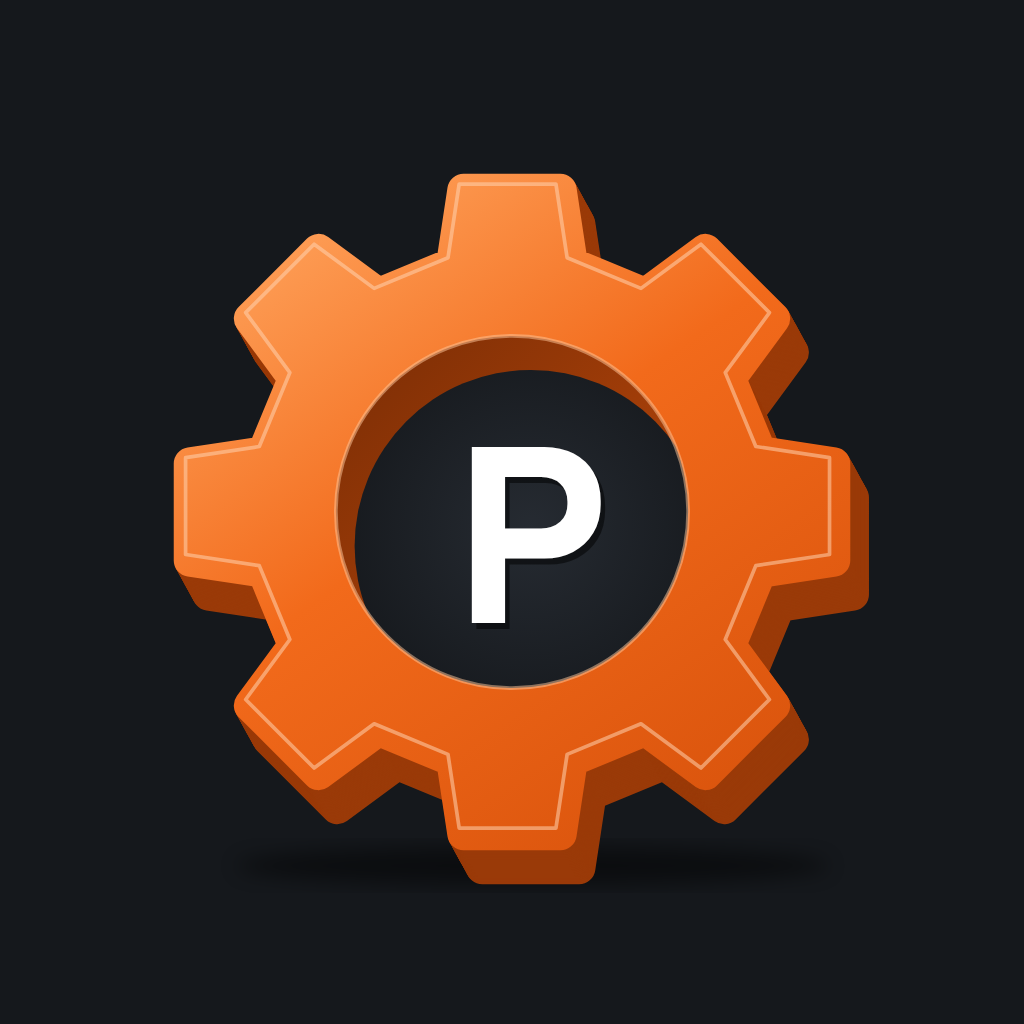
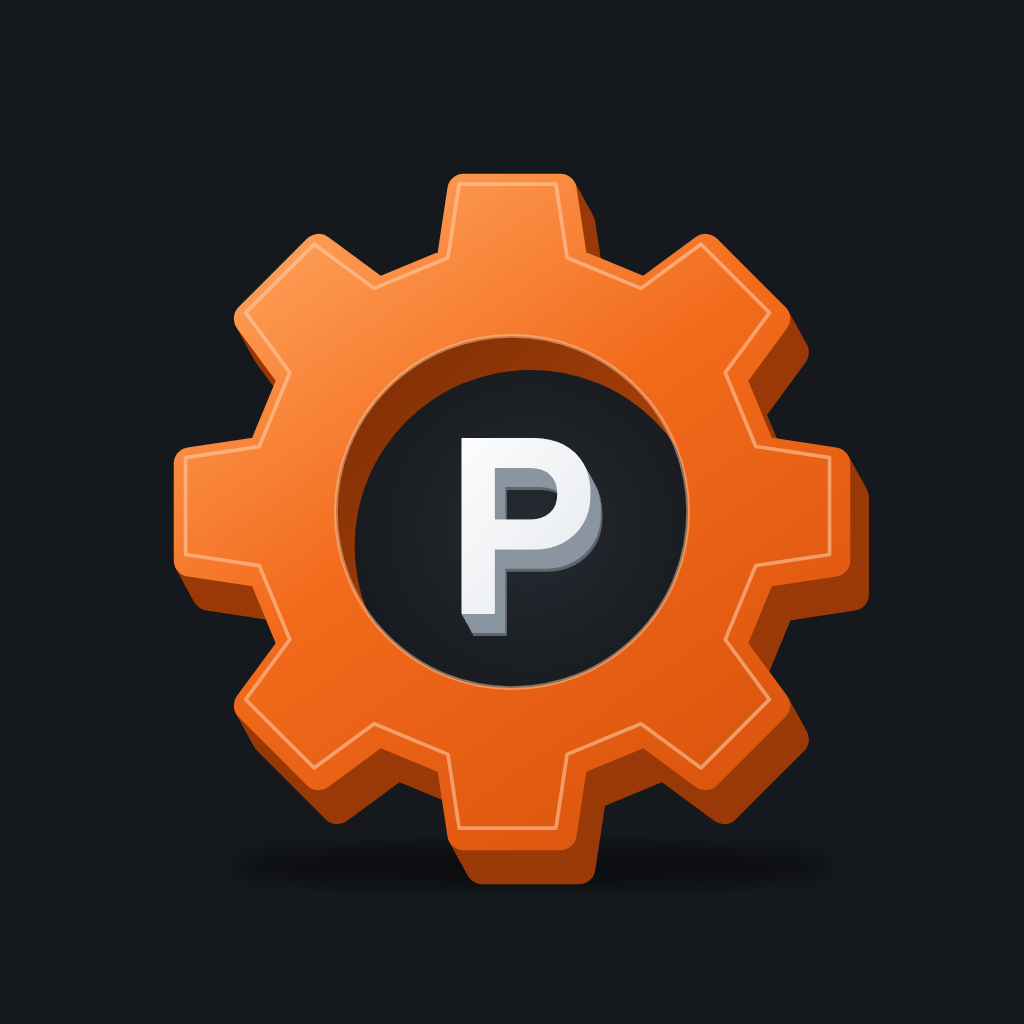
Logotipas: trimatė raidė P
Claude-Session: https://claude.ai/code/session_01Ad1XDpjP9qUWipifGTtgeb

Changed region(s): [[0.4375, 0.4062, 0.5938, 0.625]]

diff --git a/scripts/logo.js b/scripts/logo.js
@@ -20,8 +20,11 @@ const mark = (nut, letter, bore) => {
   const depth = 46;
   let side = '';
   for (let i = depth; i >= 1; i -= 2) side += `<polygon points="${pts}" transform="translate(${(i * 0.55).toFixed(1)} ${i})" fill="#9A3A08" stroke="#9A3A08" stroke-width="44" stroke-linejoin="round"/>`;
+  let letterSide = '';
+  for (let i = 30; i >= 1; i -= 1) letterSide += `<text x="${(524 + i * 0.55).toFixed(1)}" y="${650 + i}" text-anchor="middle" font-family="SG" font-weight="700" font-size="340" fill="${i > 26 ? '#5E6670' : '#8B95A1'}">P</text>`;
   return `
   <defs>
+    <linearGradient id="pface" x1="0.2" y1="0" x2="0.8" y2="1"><stop offset="0" stop-color="#FFFFFF"/><stop offset="1" stop-color="#E3E7EC"/></linearGradient>
     <linearGradient id="face" x1="0.15" y1="0" x2="0.85" y2="1"><stop offset="0" stop-color="#FFA35C"/><stop offset="0.45" stop-color="${nut}"/><stop offset="1" stop-color="#D9530C"/></linearGradient>
     <linearGradient id="wall" x1="0" y1="0" x2="1" y2="1"><stop offset="0" stop-color="#7A2D05"/><stop offset="1" stop-color="#C24A0B"/></linearGradient>
     <radialGradient id="hole" cx="0.5" cy="0.45" r="0.6"><stop offset="0" stop-color="#262B32"/><stop offset="1" stop-color="${bore}"/></radialGradient>
@@ -35,8 +38,8 @@ const mark = (nut, letter, bore) => {
   <circle cx="512" cy="512" r="238" fill="url(#wall)"/>
   <g clip-path="url(#boreclip)"><circle cx="${512 + depth * 0.55}" cy="${512 + depth}" r="238" fill="url(#hole)"/></g>
   <circle cx="512" cy="512" r="238" fill="none" stroke="#FFC79B" stroke-opacity="0.5" stroke-width="5"/>
-  <text x="${538 + 6}" y="${662 + 8}" text-anchor="middle" font-family="SG" font-weight="700" font-size="340" fill="#000" opacity="0.5">P</text>
-  <text x="538" y="662" text-anchor="middle" font-family="SG" font-weight="700" font-size="340" fill="${letter}">P</text>`;
+  ${letterSide}
+  <text x="524" y="650" text-anchor="middle" font-family="SG" font-weight="700" font-size="340" fill="url(#pface)">P</text>`;
 };
 const svg = (bg, nut, letter, bore, scale, radius) => `<html><head><style>@font-face{font-family:SG;src:url(data:font/woff2;base64,${font}) format('woff2');font-weight:700}html,body{margin:0;background:transparent}</style></head><body>
 <svg xmlns="http://www.w3.org/2000/svg" width="1024" height="1024" viewBox="0 0 1024 1024">
